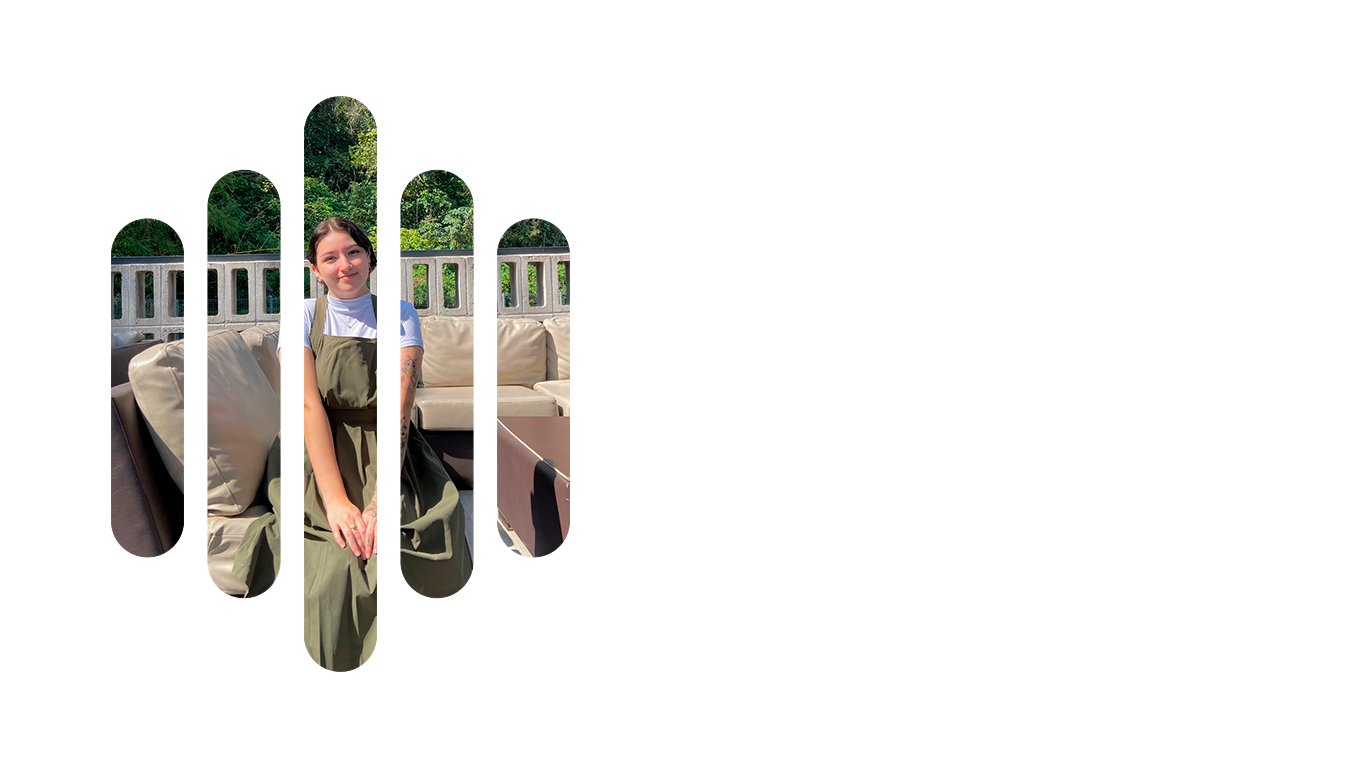
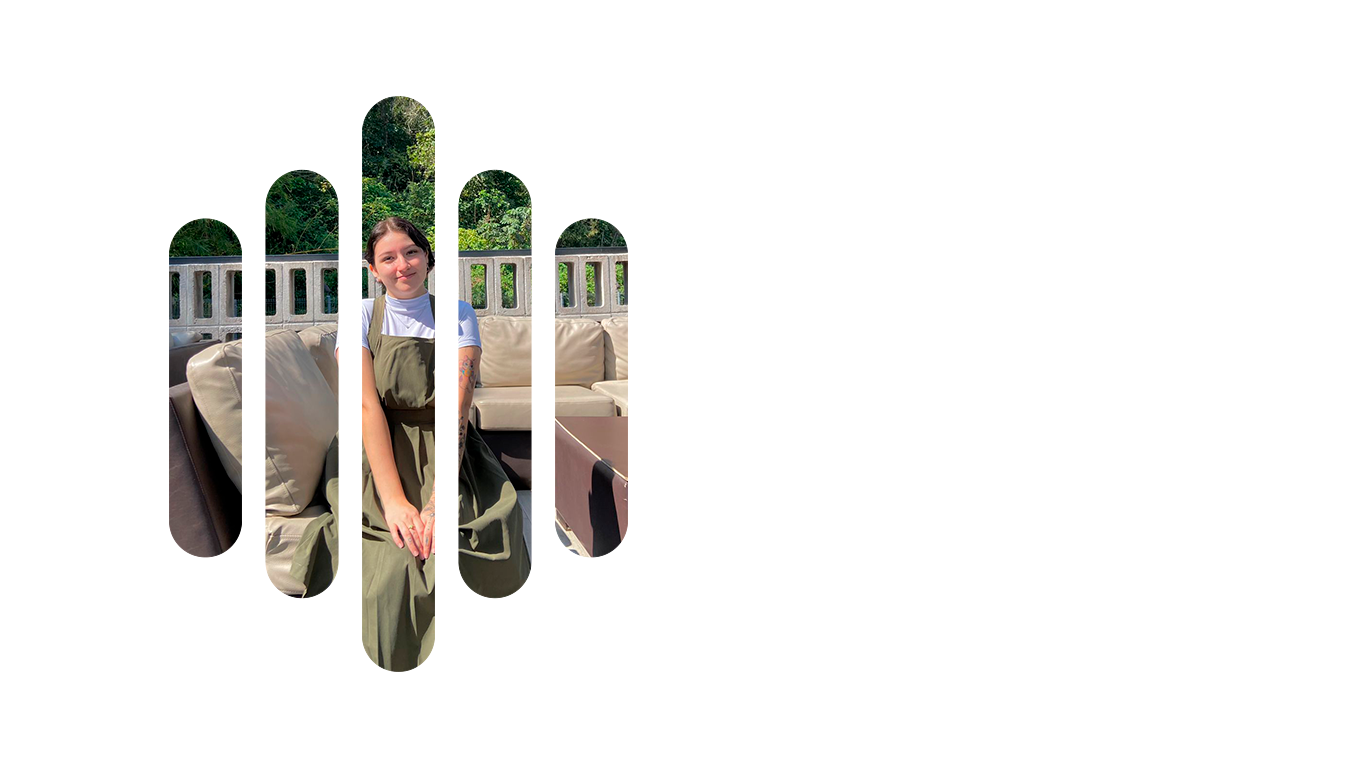
Upgrade 4 About Us

Changed region(s): [[0.0615, 0.125, 0.4612, 0.875]]

diff --git a/src/Components/AboutUs.jsx b/src/Components/AboutUs.jsx
@@ -9,14 +9,14 @@ export default function AboutUs(props) {
       
             <div class="">
               
-                <div class = "row align-items-left"> 
+                <div class = "row"> 
                 
-                  <div class="col-md-6 align-middle container p-4">
+                  <div class="col-md-6 px-5">
 
-                    <img src="Resource/Justin.png"  alt="" />
+                    <img src="Resource/Justin.png" alt="" />
 
                   </div>
-                  <div class="col-md-6 container p-4  ">
+                  <div class="col-md-6 container p-4 col align-self-center ">
 
                     <h5 class="text-aling-right fw-light"> Justin Romero </h5> 
                     <h1> FRONTEND </h1>  
@@ -33,7 +33,7 @@ export default function AboutUs(props) {
               
                 <div class = "row"> 
                 
-                  <div class="col-md-6 text-end">
+                  <div class="col-md-6 text-end col align-self-center ">
                     <h5 class="text-aling-right fw-light"> Rocio Chicas </h5> 
                     <h1 class="text-aling-right"> FULL STACK </h1> 
 
@@ -53,14 +53,14 @@ export default function AboutUs(props) {
 
            <div class="">
               
-                <div class = "row align-items-left"> 
+                <div class = "row"> 
                 
-                  <div class="col-md-6 ">
+                  <div class="col-md-6 px-5 ">
 
-                    <img src="Resource/Fatima.png"  alt="" />
+                    <img src="Resource/Fatima.png" alt="" />
 
                   </div>
-                  <div class="col-md-6 ">
+                  <div class="col-md-6 col align-self-center ">
                     <h5 class="text-aling-right fw-light"> Fatima Monterola </h5> 
                     <h1 class=""> BACKEND </h1>  
                     
@@ -76,7 +76,7 @@ export default function AboutUs(props) {
               
                 <div class = "row"> 
                 
-                  <div class="col-md-6 text-end "> 
+                  <div class="col-md-6 text-end col align-self-center "> 
 
                      
 
